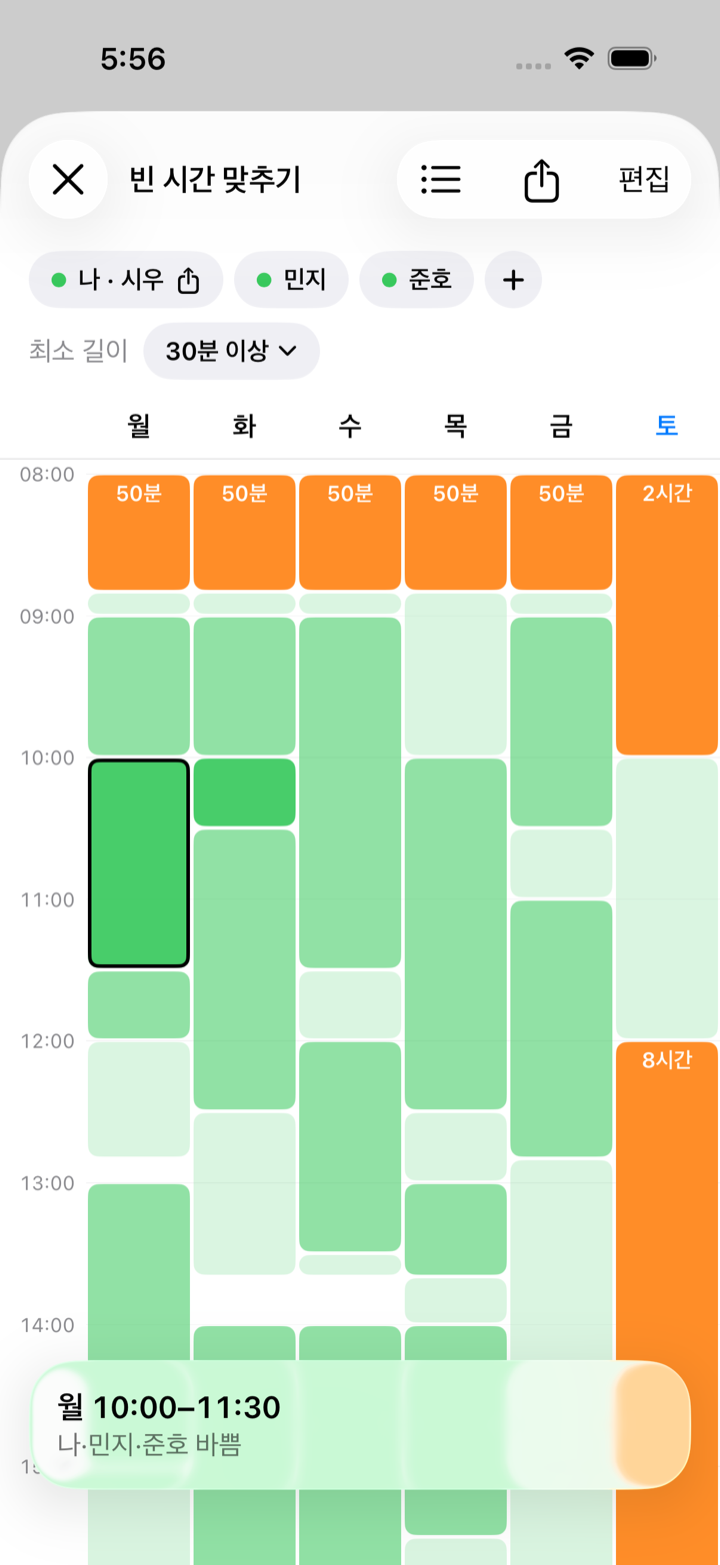
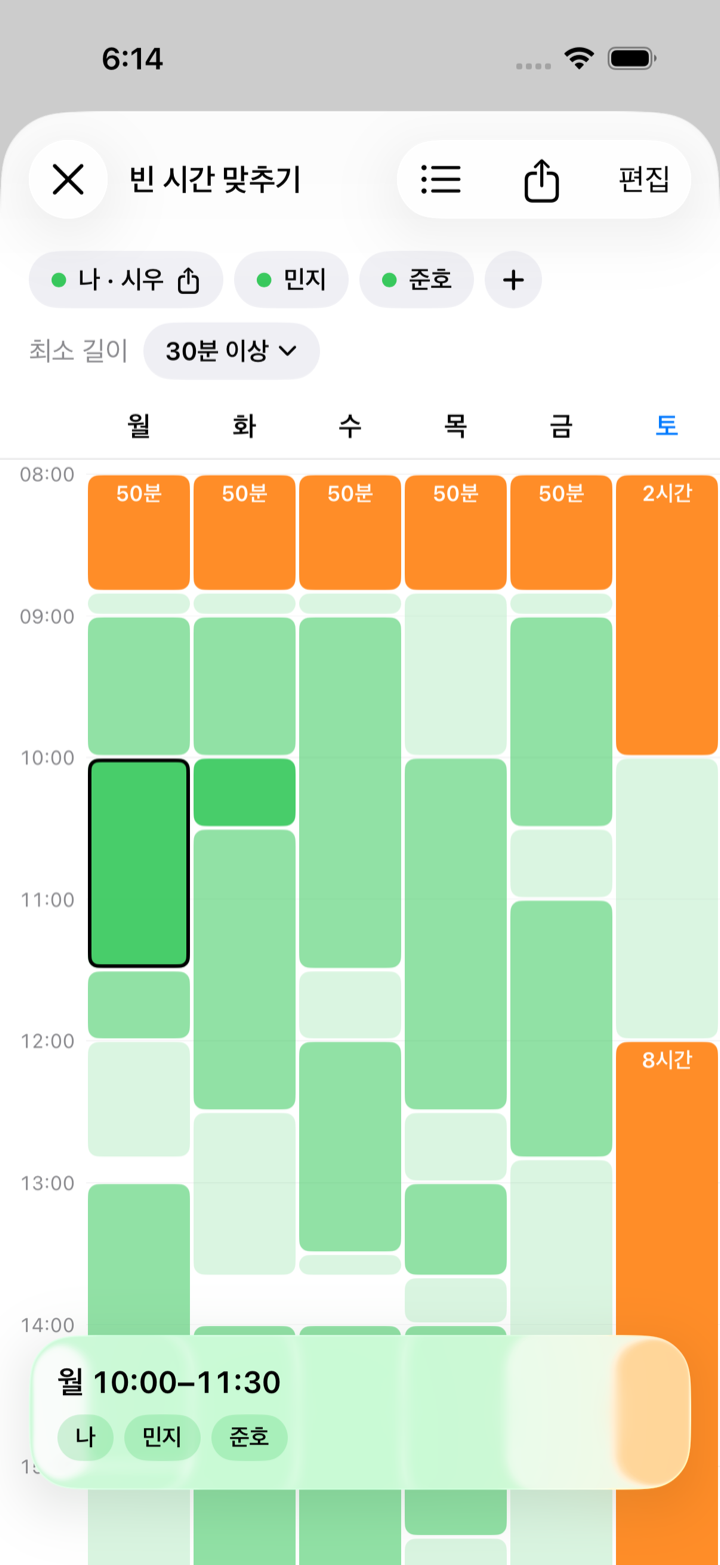
improve: blog — 빈 시간 글, 겹친 구간 카드를 태그로 바꾼 내용 반영 (#191)

Changed region(s): [[0.0306, 0.8281, 0.7028, 0.9508], [0.7639, 0.8281, 0.9778, 0.8895], [0.1222, 0.0307, 0.2444, 0.0613]]

diff --git a/src/content/blog/en/2026-09-28-timetable-free-time-finder.md b/src/content/blog/en/2026-09-28-timetable-free-time-finder.md
@@ -74,7 +74,7 @@ The limit: if a friend builds a new term's timetable or duplicates one before se
 
 A single gray made "one of five is busy" look the same as "all five are busy". With a group, the useful answer is often "this works if one person moves something", and a flat gray hid it. Busy hours are now shaded by how many people are busy, with as many steps as people switched on.
 
-![The deepest green band on Monday selected, with the card listing everyone who is busy; shared free time in orange](/blog/timetable-free-time-finder/busy-band-selected.png)
+![The deepest green band on Monday selected, with a tag for each busy person in the card; shared free time in orange](/blog/timetable-free-time-finder/busy-band-selected.png)
 
 The colors moved twice. Green used to mean "everyone free", so we tried gray shades first. But a chip that is switched on already shows a green dot. So green now means people, their busy hours stacking up, and the shared free blocks moved to orange. Blue was out because the timetable grid uses it for editing, and gray blended into the lightest green. One color, one meaning.
 
@@ -82,7 +82,7 @@ Instead of stacking translucent blocks (opacity doesn't add up evenly, and edges
 
 ![Dark mode, busier stretches are brighter green](/blog/timetable-free-time-finder/busy-heat-dark.png)
 
-Taps work per stretch now. Tap one and the card splits the group: who is busy, who is free, in that exact stretch.
+Taps work per stretch now. Tap one and the card lists the timetables in that exact stretch as tags. A sentence like "Minji, Junho busy, you free" made you hunt for names; tags show how many and who at a glance, and anyone without a tag is free.
 
 The comparison is capped at ten timetables including your own, for both new friend files and adding another of your timetables. A friend re-sending their timetable still just updates their chip.
 
